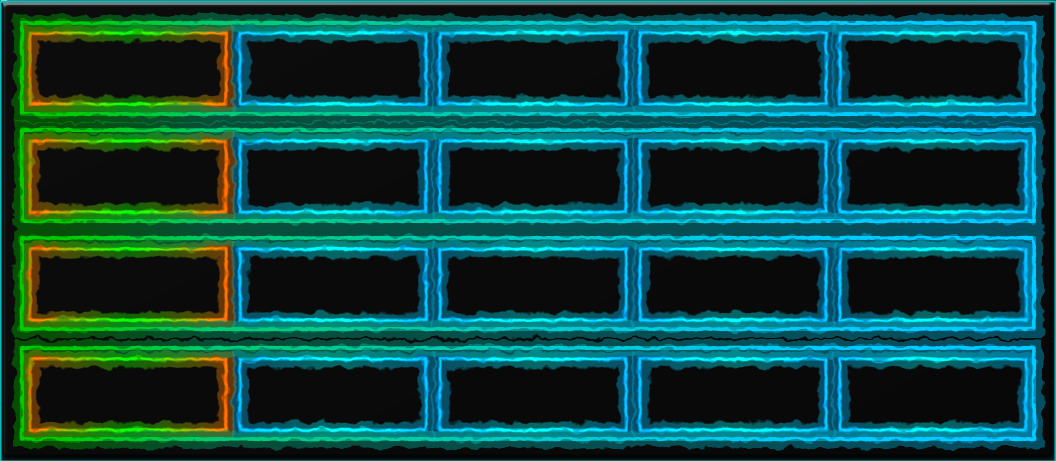
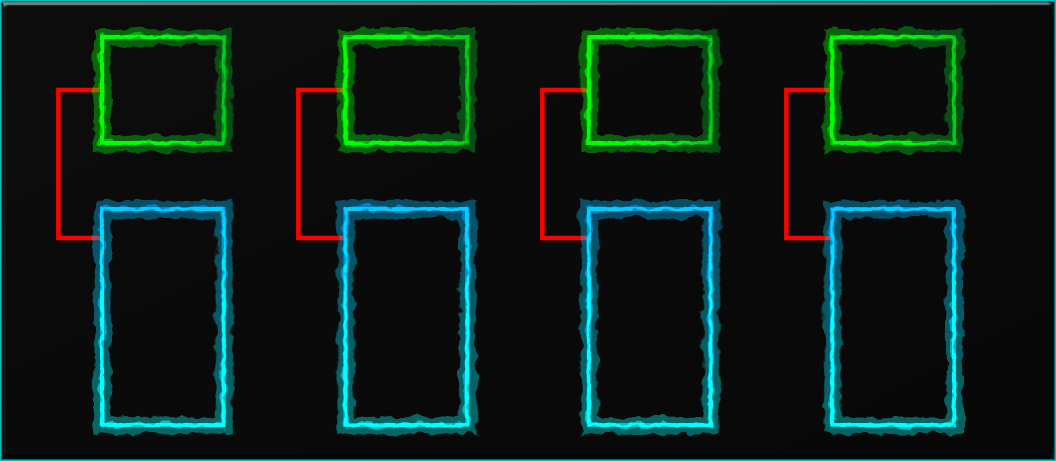
Added another backend and changed the Channels interface. Finished (completely untested) support for the JACK backend. The Channels page is now organized differently, and is overall prettier. Made some small changes to the Player class to make it a little bit more like the Emitter class in terms of 

diff --git a/backend/jackaudio.cpp b/backend/jackaudio.cpp
@@ -19,11 +19,108 @@
 
 #include "backend/jackaudio.h"
 
+#include <algorithm>
+
 namespace sb {
 #ifndef NO_JACK
     bool JackAudioBackend::instantiable() {
-        return false;
+        return true; //There are no lightweight checks that can be performed here.
     }
+    JackAudioBackend::JackAudioBackend(Synth* s, size_t& srate, std::map<size_t, bool>& srates, size_t) {
+        cli = jack_client_open("Soundbench",static_cast<jack_options_t>(0),&stat);
+
+        lport = jack_port_register(cli,"Soundbench Output - Left", JACK_DEFAULT_AUDIO_TYPE,JackPortIsOutput,srate/100);
+        rport = jack_port_register(cli,"Soundbench Output - Right", JACK_DEFAULT_AUDIO_TYPE,JackPortIsOutput,srate/100);
+
+        srate = jack_get_sample_rate(cli);
+
+        for(size_t i = 0; i < SupportedRatesCount; ++i)
+            srates[SupportedRates[i]] = false; //JACK is in control of sample rate switching here.
+
+        sampling_rate = srate;
+        syn = s;
+    }
+    JackAudioBackend::~JackAudioBackend() {
+        stop();
+        jack_client_close(cli);
+    }
+
+    void JackAudioBackend::start() {
+        int err = jack_activate(cli);
+        if (err != 0) {
+            //Error handling stuff here.
+        }
+    }
+
+    void JackAudioBackend::stop() {
+        int err = jack_deactivate(cli);
+        if (err != 0) {
+            //Error handling stuff here.
+        }
+    }
+    size_t JackAudioBackend::getDefaultDevice() {
+        return 0;
+    }
+    size_t JackAudioBackend::getCurrentDevice() {
+        return 0;
+    }
+    void JackAudioBackend::setDevice(uint32_t) {
+        return;
+    }
+
+    bool JackAudioBackend::usesPorts() {
+        return true;
+    }
+    std::vector<std::string> JackAudioBackend::getPorts() {
+        const char** portes = jack_get_ports(cli,NULL,NULL,static_cast<unsigned long>(JackPortIsInput));
+
+        std::vector<std::string> ret;
+        for (size_t i = 0; portes[i] != NULL; ++i)
+            ret.push_back(portes[i]);
+
+        if (portes != NULL)
+            jack_free(portes);
+        return ret;
+    }
+    std::vector<std::size_t> JackAudioBackend::getConnections(bool rightport) {
+        const char** connlist = jack_port_get_connections(rightport?rport:lport);
+        std::vector<std::string> portlist = getPorts();
+        std::vector<std::size_t> ret;
+
+        for (size_t i = 0; connlist[i] != NULL; ++i) {
+            auto loc = std::find(portlist.begin(),portlist.end(),connlist[i]);
+            if(loc != portlist.end())
+                ret.push_back(loc-portlist.begin());
+        }
+
+        if (connlist != NULL)
+            jack_free(connlist);
+        return ret;
+
+    }
+    bool JackAudioBackend::modifyConnection(bool rightport, size_t portid, bool conn) {
+        int e = 0;
+        if (conn) {
+            e = jack_connect(cli,
+                         jack_port_name(rightport?rport:lport),
+                         jack_port_name(jack_port_by_id(cli,portid)));
+        }
+        else {
+            e = jack_disconnect(cli,
+                         jack_port_name(rightport?rport:lport),
+                         jack_port_name(jack_port_by_id(cli,portid)));
+        }
+        if (e != 0) {
+            //Error handling stuff here.
+            return false;
+        }
+        return true;
+    }
+
+    void JackAudioBackend::setSamplingRate(size_t) {
+        std::cerr << "The sampling rate cannot be changed while using JACK.\n";
+    }
+
 #else
     bool JackAudioBackend::instantiable() {
         return false;

diff --git a/frontend/jackmidi.h b/frontend/jackmidi.h
@@ -1,0 +1,64 @@
+/*
+    This file is part of Soundbench.
+
+    Soundbench is free software: you can redistribute it and/or modify
+    it under the terms of the GNU General Public License as published by
+    the Free Software Foundation, either version 3 of the License, or
+    (at your option) any later version.
+
+    Soundbench is distributed in the hope that it will be useful,
+    but WITHOUT ANY WARRANTY; without even the implied warranty of
+    MERCHANTABILITY or FITNESS FOR A PARTICULAR PURPOSE.  See the
+    GNU General Public License for more details.
+    You should have received a copy of the GNU General Public License
+    along with Soundbench.  If not, see <http://www.gnu.org/licenses/>.
+
+    Copyright 2012  Amaya S.
+*/
+
+
+#ifndef JACKMIDI_H
+#define JACKMIDI_H
+
+#include "frontend/base.h"
+
+#ifndef NO_JACK
+
+namespace sb {
+    class JackMidiFrontend : public MidiFrontend {
+    public:
+        static bool instantiable();
+
+        explicit JackMidiFrontend(Synth* s, size_t porte = 0);
+        ~JackMidiFrontend();
+        void record(bool b);
+        size_t getCurrentPort();
+        void stop();
+        void start();
+        bool isRecording();
+        bool supportsVirtualPorts();
+        void setVirtualPort(bool vport);
+        std::vector<std::string> getPorts();
+
+    private:
+    };
+}
+#else
+namespace sb {
+    class JackMidiFrontend : public MidiFrontend {
+    public:
+        static bool instantiable();
+
+        explicit JackMidiFrontend(Synth* syn, size_t port = 0) : MidiFrontend(syn,port) {}
+        ~JackMidiFrontend() {}
+        void stop() {}
+        void start() {}
+        void record(bool) {}
+        size_t getCurrentPort() {return 0;}
+        virtual std::vector<std::string> getPorts() {return std::vector<std::string>();}
+    };
+}
+#endif
+
+#endif // JACKMIDI_H
+

diff --git a/frontend/jackmidi.cpp b/frontend/jackmidi.cpp
@@ -10,37 +10,22 @@
     but WITHOUT ANY WARRANTY; without even the implied warranty of
     MERCHANTABILITY or FITNESS FOR A PARTICULAR PURPOSE.  See the
     GNU General Public License for more details.
-
     You should have received a copy of the GNU General Public License
     along with Soundbench.  If not, see <http://www.gnu.org/licenses/>.
 
     Copyright 2012  Amaya S.
 */
 
-#include "player.h"
+#include "jackmidi.h"
 
 namespace sb {
-    Player::Player(Synth* syn, QListWidget* tracklist, CpuMeter* themet) {
-        affectedlist = tracklist;
-        affectedmet = themet;
-
-        reed = new midi::MidiFIO;
-        first = new midi::nodes::PlayerStartNode(syn);
-        wri = new SoundFileWriter(syn);
-
-        playing = false;
-        fetype = NoMIDI;
-
-        initfrontend(syn);
-
-        connect(this,SIGNAL(progressed(int)),affectedmet,SLOT(setProgress(int)));
-        connect(this,SIGNAL(donePlaying()),SLOT(cleanThread()));
+#ifndef NO_JACK
+    bool JackMidiFrontend::instantiable() {
+        return true; //Not much one can do short of starting the server.
     }
-    Player::~Player() {
-        disconnect(SIGNAL(progressed(int)),affectedmet,SLOT(setProgress(int)));
-        if (first != nullptr)
-            delete first;
-        delete reed;
-        delete wri;
+#else
+    bool JackMidiFrontend::instantiable() {
+        return false;
     }
+#endif
 }

diff --git a/backend/jackaudio.h b/backend/jackaudio.h
@@ -23,6 +23,8 @@
 #define JACKAUDIO_H
 
 #ifndef NO_JACK
+#include <jack/jack.h>
+
 namespace sb {
     class JackAudioBackend : public EmitterBackend {
     public:
@@ -37,8 +39,16 @@ namespace sb {
         size_t getCurrentDevice();
 
         void setSamplingRate(size_t);
-        void setDevice(uint32_t devi);
-        std::vector<std::string> getDevices();
+        void setDevice(uint32_t);
+
+        bool usesPorts();
+        std::vector<std::string> getPorts();
+        std::vector<size_t> getConnections(bool rightport);
+        bool modifyConnection(bool rightport, size_t portid, bool conn = false);
+    private:
+        jack_client_t* cli;
+        jack_port_t *lport, *rport;
+        jack_status_t stat;
     };
 }
 #else
@@ -46,7 +56,7 @@ namespace sb {
     class JackAudioBackend : public EmitterBackend {
     public:
         static bool instantiable();
-        explicit JackAudioBackend(sb::Synth*, size_t&,std::map<size_t,bool>&,size_t) {}
+        explicit JackAudioBackend(sb::Synth*, size_t&,std::map<size_t,bool>&, size_t) {}
         size_t returnSuggestedBufferSize() {return 0;}
         ~JackAudioBackend() {}
         void start() {}

diff --git a/backend/rtaudio.cpp b/backend/rtaudio.cpp
@@ -34,8 +34,10 @@ namespace sb {
             if (info.probed) {
                 if(info.outputChannels >= 2)
                     return true;
-                else
+                else if (info.outputChannels == 1)
                     std::cerr << "The default device for RtAudio does not support stereo sound. Skipping this backend...\n";
+                else
+                    std::cerr << "The default device for RtAudio cannot output any audio at this time. Skipping this backend...\n";
             }
             else
                 std::cerr << "RtAudio could not find or probe the default audio device. Skipping this backend...\n";

diff --git a/backend/base.h b/backend/base.h
@@ -49,6 +49,19 @@ namespace sb {
         virtual bool isReady() {
             return ready;
         }
+        virtual bool usesPorts() {
+            return false;
+        }
+        virtual std::vector<std::string> getPorts() {
+            return std::vector<std::string>();
+        }
+        virtual std::vector<size_t> getConnections(bool) {
+            return std::vector<size_t>();
+        }
+        virtual bool modifyConnection(bool, size_t, bool) {
+            return false;
+        }
+
         virtual void setDevice(uint32_t dev) = 0;
         virtual std::vector<std::string> getDevices() = 0;
 

diff --git a/player/midiinit.cpp b/player/midiinit.cpp
@@ -21,8 +21,13 @@
 
 namespace sb {
     void Player::initfrontend(Synth* syn) {
+#ifdef NO_MIDIFRONTEND
+        std::cerr << "Soundbench was compiled without any MIDI frontends.\n";
+#else
         std::cerr << "Determining which MIDI frontends will initialize.\n";
         supported_apis[RtMidi_I] = RtMidiFrontend::instantiable();
+        supported_apis[JACK_I] = JackMidiFrontend::instantiable();
+#endif
 
         if (supported_apis[RtMidi_I]) {
             std::cerr << "Initializing an RtMidi frontend...\n";

diff --git a/player/player.h b/player/player.h
@@ -26,6 +26,7 @@
 #include "sfwriter.h"
 
 #include "frontend/rtmidi.h"
+#include "frontend/jackmidi.h"
 
 #include <deque>
 #include <cstdio>
@@ -108,6 +109,7 @@ namespace sb {
         midi::nodes::PlayerStartNode* first;
         SoundFileWriter* wri;
         MidiFrontend* midin;
+        FrontendType fetype;
         std::thread* playthread;
 
         QListWidget* affectedlist;
